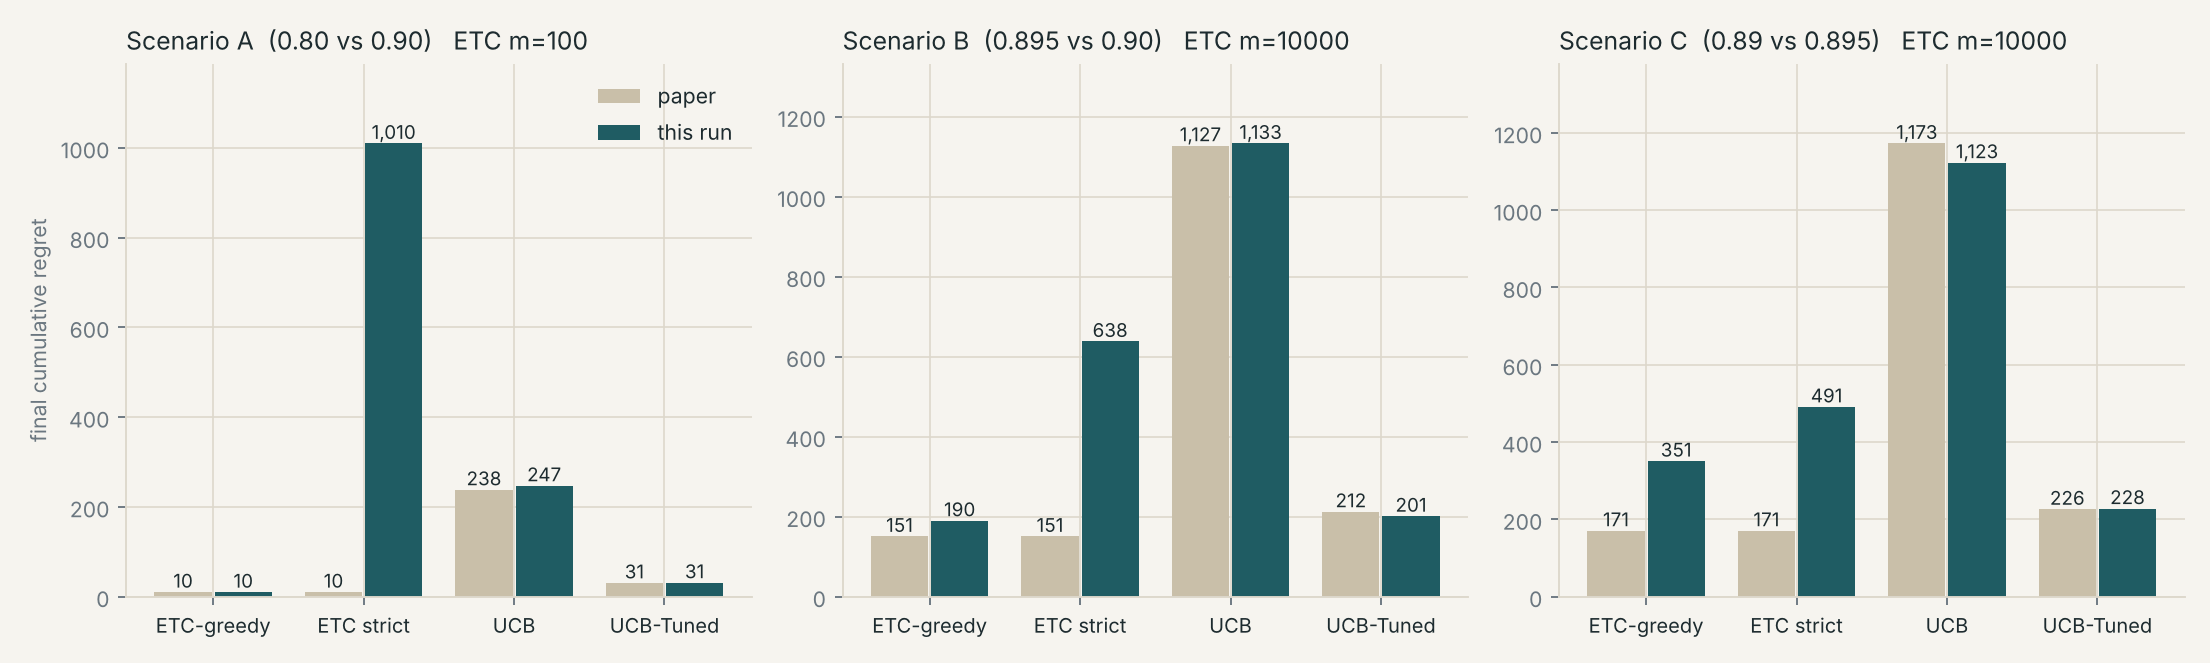
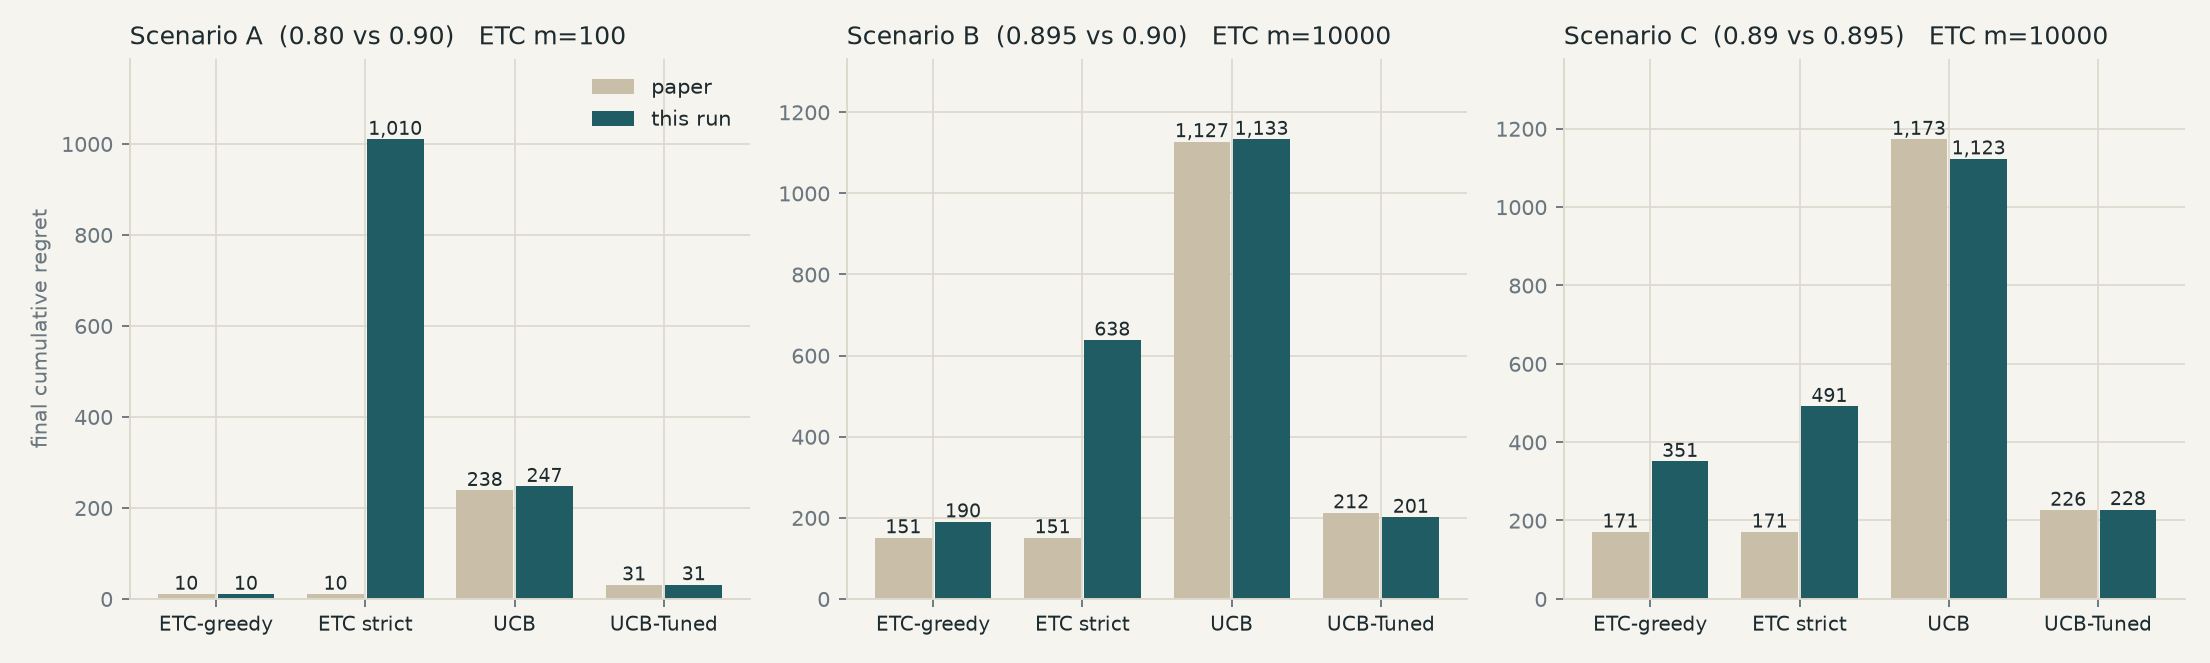
Validate bandit implementation and refresh full-run results
Fix ETC bookkeeping for truncated and odd exploration horizons. Add cutoff checks and reliable verifier exit codes. Keep quick-run outputs separate and record seed, environment and source provenance.

Refresh results from the full T=1,000,000, 100-trial run (seed 42; Python 3.14.5; NumPy 2.4.6). All 26 verification checks passed. All 36 main result rows and curves match the previous results; auxiliary ETC estimates retain Monte Carlo uncertainty.

Update the README to match the committed outputs and document partial reproduction. Include only assignment source, requirements, ignore rules and the existing results layout.

diff --git a/run_experiment.py b/run_experiment.py
@@ -7,15 +7,17 @@ Algorithms", arXiv:2510.27001.
   Scenario B  p = (0.895, 0.90)   micro-gap, Delta = 0.005, lower variance
   Scenario C  p = (0.89, 0.895)   micro-gap, Delta = 0.005, higher variance
 
-Protocol (paper, Section 3.2): horizon T = 1,000,000 steps, 100 independent
-trials, ETC exploration lengths m in {10, 100, 1000, 10^4, 10^5}.
+Partial reproduction: paper-matched horizon T = 1,000,000 steps and 100
+independent trials for ETC, UCB and UCB-Tuned; this is a subset of the paper's
+eight algorithms. Arm orders are randomized per trial rather than exhaustively
+permuted. ETC exploration lengths m in {10, 100, 1000, 10^4, 10^5}.
 
 Usage
-  python3 run_experiment.py              # full protocol, about 10 minutes on 2 cores
-  python3 run_experiment.py --quick      # T = 100,000, 20 trials, about 1 minute
+  python3 run_experiment.py              # paper-matched horizon/trials; partial algorithm reproduction
+  python3 run_experiment.py --quick      # smoke check: T = 100,000, 20 trials, output results_quick/
   python3 run_experiment.py --workers 4  # number of processes (default: all cores)
 
-Output (folder results/)
+Output (folder results/, or results_quick/ with --quick)
   summary.csv       mean / std / median regret per scenario and algorithm
   etc_expected.csv  expected ETC regret from many simulated trials
   comparison.csv    our final regret next to the values printed in the paper
@@ -23,8 +25,11 @@ Output (folder results/)
 """
 import argparse
 import csv
+from datetime import datetime, timezone
+import hashlib
 import json
 import os
+import platform
 import time
 from concurrent.futures import ProcessPoolExecutor
 
@@ -35,6 +40,8 @@ import bandit_sim as sim
 SCENARIOS = {"A": (0.80, 0.90), "B": (0.895, 0.90), "C": (0.89, 0.895)}
 ETC_M = (10, 100, 1_000, 10_000, 100_000)
 SEED = 42
+IMPLEMENTATION_VERSION = "group6-1.1"
+ALGORITHM_CODES = {"etc": 0, "etc_exp": 1, "greedy": 2, "greedy_exp": 3, "ucb": 4, "ucb_tuned": 5}
 # Exploration lengths for which the expected ETC-greedy regret is estimated from more trials
 GREEDY_EXPECTATION = {("A", 100), ("B", 10_000), ("C", 10_000)}
 
@@ -72,7 +79,7 @@ def run_task(task):
     kind, scen, m, horizon, trials, expectation_trials = task
     p = SCENARIOS[scen]
     s_idx = list(SCENARIOS).index(scen)
-    code = {"etc": 0, "etc_exp": 1, "greedy": 2, "greedy_exp": 3, "ucb": 4, "ucb_tuned": 5}[kind]
+    code = ALGORITHM_CODES[kind]
     rng = np.random.default_rng([SEED, s_idx, code, m])
     marks = sim.checkpoints(horizon)
     result = {"kind": kind, "scenario": scen, "m": m}
@@ -123,8 +130,10 @@ def main():
     parser = argparse.ArgumentParser()
     parser.add_argument("--quick", action="store_true", help="T = 100,000 and 20 trials")
     parser.add_argument("--workers", type=int, default=os.cpu_count())
-    parser.add_argument("--out", default="results")
+    parser.add_argument("--out", default=None, help="output folder (default: results, or results_quick with --quick)")
     args = parser.parse_args()
+    if args.out is None:
+        args.out = "results_quick" if args.quick else "results"
     horizon, trials = (100_000, 20) if args.quick else (1_000_000, 100)
     strict_exp, greedy_exp = (5_000, 100) if args.quick else (100_000, 1_000)
     os.makedirs(args.out, exist_ok=True)
@@ -184,9 +193,30 @@ def main():
               ["scenario", "paper_algorithm", "our_algorithm", "paper_regret", "our_regret", "our_sem",
                "our_over_paper", "paper_subopt_ratio", "our_subopt_ratio", "horizon", "trials"], rows)
 
+    source_dir = os.path.dirname(os.path.abspath(__file__))
+    source_hashes = {}
+    for filename in ("bandit_sim.py", "run_experiment.py"):
+        with open(os.path.join(source_dir, filename), "rb") as source:
+            source_hashes[filename] = hashlib.sha256(source.read()).hexdigest()
+    metadata = {
+        "generated_at_utc": datetime.now(timezone.utc).isoformat(),
+        "python_version": platform.python_version(),
+        "numpy_version": np.__version__,
+        "base_seed": SEED,
+        "rng_bit_generator": np.random.default_rng().bit_generator.__class__.__name__,
+        "task_seed_schema": "[base_seed, scenario_index_in_ABC, algorithm_code, exploration_m]",
+        "algorithm_codes": ALGORITHM_CODES,
+        "algorithm_implementation_version": IMPLEMENTATION_VERSION,
+        "source_sha256": source_hashes,
+        "reproduction_scope": "ETC, ETC-greedy, UCB, UCB-Tuned; partial algorithm/metric reproduction",
+        "arm_order_protocol": "independent random swap per trial; not exhaustive permutations",
+        "paper_comparison_horizon_matches": horizon == 1_000_000,
+        "stored_data_scope": "aggregate mean curves; per-trial trajectories are not retained",
+    }
     with open(os.path.join(args.out, "raw_results.json"), "w") as f:
         json.dump({"horizon": horizon, "trials": trials, "scenarios": SCENARIOS,
-                   "checkpoints": sim.checkpoints(horizon).tolist(), "mean_regret_curves": curves}, f)
+                   "checkpoints": sim.checkpoints(horizon).tolist(), "mean_regret_curves": curves,
+                   "metadata": metadata}, f)
 
     print(f"\nSaved summary.csv, etc_expected.csv, comparison.csv, raw_results.json to {args.out}/"
           f"  ({time.time() - started:.0f}s)")

diff --git a/verify_implementation.py b/verify_implementation.py
@@ -8,6 +8,8 @@ Checks that bandit_sim.py behaves as the algorithm definitions say.
    separate, plain-Python single-trial implementation written directly from the
    definitions.
 3. Regret bookkeeping: regret is non-decreasing in t and bounded by gap * t.
+4. ETC exploration ends at the horizon, including odd horizons, and final regret
+   equals gap * horizon * suboptimal-pull ratio.
 
 Run:  python3 verify_implementation.py
 """
@@ -140,5 +142,37 @@ for name, (out, *_rest) in {
     bounded = bool(np.all(out <= 0.1 * marks[:, None] + 1e-9))
     report(f"regret bookkeeping, {name}", monotone and bounded, "non-decreasing in t and at most gap * t")
 
+# ----------------------------------------- 4. exploration cutoffs and odd horizons
+# Both arm orders make an omitted final arm-0 pull observable. These expectations
+# follow directly from one alternating action per round, independent of rewards.
+boundary_means = np.array([[0.80, 0.90], [0.90, 0.80]])
+boundary_gap = boundary_means.max(axis=1)[:, None] - boundary_means
+for name, simulate in (("ETC", sim.simulate_etc), ("ETC-greedy", sim.simulate_etc_greedy)):
+    for horizon in (3, 4, 5, 6, 7):
+        m = 3
+        boundary_marks = np.arange(1, horizon + 1)
+        out, ratio, flagged = simulate(boundary_means, m, horizon, boundary_marks, np.random.default_rng(12))
+        implied_regret = boundary_gap.max(axis=1) * horizon * ratio
+        ratio_matches = bool(np.allclose(out[-1], implied_regret, atol=1e-12, rtol=0))
+        exploration_marks = boundary_marks[boundary_marks <= 2 * m]
+        expected_exploration = (((exploration_marks + 1) // 2)[:, None] * boundary_gap[:, 0]
+                                + (exploration_marks // 2)[:, None] * boundary_gap[:, 1])
+        exploration_matches = bool(np.allclose(out[:len(exploration_marks)], expected_exploration,
+                                              atol=1e-12, rtol=0))
+        no_commit_before_exploitation = horizon > 2 * m or not bool(np.any(flagged))
+        report(f"exploration cutoff, {name}, m={m}, T={horizon}",
+               ratio_matches and exploration_matches and no_commit_before_exploitation,
+               "alternating pulls through cutoff; regret = gap * T * suboptimal ratio")
+
+# The documented quick mode has m=100,000 at T=100,000: exactly half the pulls
+# are suboptimal, with no post-exploration action and regret 250 for gap 0.005.
+quick_means = np.array([[0.89, 0.895], [0.895, 0.89]])
+for name, simulate in (("ETC", sim.simulate_etc), ("ETC-greedy", sim.simulate_etc_greedy)):
+    out, ratio, flagged = simulate(quick_means, 100_000, 100_000, np.array([100_000]),
+                                  np.random.default_rng(13))
+    ok = bool(np.allclose(out[-1], 250.0) and np.allclose(ratio, 0.5) and not np.any(flagged))
+    report(f"quick-mode exploration cutoff, {name}", ok, "regret 250; suboptimal ratio 0.5; no commitment")
+
 print()
 print("ALL CHECKS PASSED" if all(results) else "SOME CHECKS FAILED")
+raise SystemExit(0 if all(results) else 1)

diff --git a/bandit_sim.py b/bandit_sim.py
@@ -67,9 +67,9 @@ def simulate_etc(means, m, horizon, marks, rng):
         else:
             regret[i] = m * (gap[:, 0] + gap[:, 1]) + (t - 2 * m) * committed_gap
     explore_pulls = min(2 * m, horizon)
-    subopt_pulls = (explore_pulls // 2) * (gap[:, 0] > 0) + (explore_pulls // 2) * (gap[:, 1] > 0)
+    subopt_pulls = ((explore_pulls + 1) // 2) * (gap[:, 0] > 0) + (explore_pulls // 2) * (gap[:, 1] > 0)
     subopt_pulls = subopt_pulls + max(horizon - 2 * m, 0) * (committed_gap > 0)
-    return regret, subopt_pulls / horizon, committed_gap > 0
+    return regret, subopt_pulls / horizon, (committed_gap > 0) & (horizon > 2 * m)
 
 
 def simulate_ucb(means, horizon, marks, rng, tuned=False):
@@ -140,6 +140,14 @@ def simulate_etc_greedy(means, m, horizon, marks, rng):
     n = means.shape[0]
     rows = np.arange(n)
     gap = means.max(axis=1)[:, None] - means
+    if horizon < 2 * m:
+        # The horizon ends during alternating exploration: no exploitation occurs.
+        # Avoid preloading rewards/counts for pulls beyond the requested horizon.
+        out = np.empty((len(marks), n))
+        for i, t in enumerate(marks):
+            out[i] = ((t + 1) // 2) * gap[:, 0] + (t // 2) * gap[:, 1]
+        pulls_suboptimal = ((horizon + 1) // 2) * (gap[:, 0] > 0) + (horizon // 2) * (gap[:, 1] > 0)
+        return out, pulls_suboptimal / horizon, np.zeros(n, dtype=bool)
     counts = np.full((n, 2), float(m))
     sums = rng.binomial(m, means).astype(float)       # exploration outcome, (n, 2)
     explore_regret = m * gap.sum(axis=1)

diff --git a/README.md b/README.md
@@ -3,7 +3,7 @@
 Experiments for the paper analysed in this assignment:
 
 > Wolf, E. (2025). *A Framework for Fair Evaluation of Variance-Aware Bandit Algorithms.* arXiv:2510.27001.
-> Authors' framework (Bandit Playground): https://github.com/eelisee/bandit_playground
+> Authors' paper-linked framework version (Bandit Playground): https://github.com/eelisee/bandit_playground/tree/ab0e657070c41089ed37d9795f297d067bd84903
 
 BITS Pilani WILP, M.Tech AI/ML, Deep Reinforcement Learning, Assignment I, Group 6.
 
@@ -17,18 +17,23 @@ BITS Pilani WILP, M.Tech AI/ML, Deep Reinforcement Learning, Assignment I, Group
 ## What this repository contains
 
 The paper compares eight bandit algorithms on three two-armed Bernoulli scenarios. This
-repository simulates ETC, UCB and UCB-Tuned under the paper's protocol (horizon T = 1,000,000
-steps, 100 independent trials, ETC exploration lengths m = 10 to 100,000) and places the
+repository partially reproduces ETC, UCB and UCB-Tuned using the paper's scenarios, horizon T = 1,000,000
+steps, 100 independent trials and ETC exploration lengths m = 10 to 100,000, and places the
 resulting regret next to the values printed in the paper's Tables 3 to 5. ETC is simulated in
 two forms, described below, because the paper's text and the Bandit Playground code describe
 slightly different procedures.
+
+This is a partial reproduction of three algorithms and selected regret metrics. Our arm order
+is randomized per trial, rather than exhaustively evaluated for each permutation. Random
+streams and checkpoints differ; reward distributions, VaR and reward-variance tests are not
+reproduced. The paper contributes an evaluation framework for existing algorithms.
 
 | File | Purpose |
 |---|---|
 | `bandit_sim.py` | Simulation of ETC, ETC-greedy, UCB and UCB-Tuned (all trials run together as NumPy arrays) |
 | `run_experiment.py` | Runs scenarios A, B, C and writes the tables in `results/` |
 | `make_plots.py` | Draws `results/regret_curves.png` and `results/final_regret_vs_paper.png` |
-| `verify_implementation.py` | Checks the simulation against closed-form theory and a plain-loop reference |
+| `verify_implementation.py` | Checks the simulation against a normal approximation and independent plain-loop references |
 | `results/` | `summary.csv`, `comparison.csv`, `etc_expected.csv`, `raw_results.json`, figures |
 
 ## Setup and run
@@ -36,12 +41,26 @@ slightly different procedures.
 ```bash
 pip install -r requirements.txt        # numpy, matplotlib
 python3 verify_implementation.py       # about a minute, prints PASS/FAIL per check
-python3 run_experiment.py              # full protocol, about 8 minutes on 2 cores
-python3 run_experiment.py --quick      # T = 100,000 and 20 trials, about 30 seconds
+python3 run_experiment.py              # full horizon for our selected methods; writes results/
+python3 run_experiment.py --quick      # T = 100,000, 20 trials; writes results_quick/
 python3 make_plots.py                  # figures from results/
 ```
 
-Random seeds are fixed (`SEED = 42`), so repeated runs give identical numbers.
+On Windows, use `python` if `python3` is not available. Quick runs use a shorter horizon;
+their paper-reference columns are not like-for-like final comparisons. Use the preserved
+full-horizon `results/` for presentation numbers. To plot quick outputs, pass their directory
+explicitly: `python3 make_plots.py results_quick`.
+
+Random seeds are fixed (`SEED = 42`); repeatability also depends on code and library versions.
+The committed results come from a full run on 11 October 2026 with Python 3.14.5 and
+NumPy 2.4.6. All 36 main summary rows, 20 paper-comparison rows and 36 mean regret curves
+matched the previously saved results exactly. The verifier passed all 26 checks.
+
+Five auxiliary strict-ETC Monte Carlo estimates differed slightly from the historical
+output, within the reported sampling uncertainty. The original producing environment was
+not recorded, so the cause of those differences is unestablished. The tables below use
+the fresh committed estimates. `results/raw_results.json` records the generation time,
+seeds, Python/NumPy versions, implementation version, source hashes and reproduction scope.
 
 ## Setting
 
@@ -77,7 +96,8 @@ favour neither arm.
 | C | UCB-Tuned | 226.09 | 227.82 ± 8.94 | 1.01 |
 
 All six values are within 6% of the paper. UCB-Tuned has the lowest regret of the two in every
-scenario, and the difference to UCB is largest in the two micro-gap scenarios B and C.
+scenario. The absolute regret savings against UCB are largest in the two micro-gap
+scenarios B and C; the largest relative reduction occurs in A.
 
 ![final regret vs paper](results/final_regret_vs_paper.png)
 
@@ -111,13 +131,13 @@ so the expected values from 100,000 trials are listed next to it.
 | A | 100,000 | 10,000.0 | 0 / 100 | 10,000.0 ± 0.0 | 0.0% |
 | B | 10 | 2,600.0 | 52 / 100 | 2,428.3 ± 7.9 | 48.6% |
 | B | 100 | 2,200.1 | 44 / 100 | 2,258.6 ± 7.9 | 45.2% |
-| B | 1,000 | 1,851.3 | 37 / 100 | 1,781.5 ± 7.6 | 35.6% |
-| B | 10,000 | 638.0 | 12 / 100 | 655.1 ± 5.1 | 12.3% |
-| B | 100,000 | 500.0 | 0 / 100 | 500.4 ± 0.1 | 0.0% |
+| B | 1,000 | 1,851.3 | 37 / 100 | 1,785.5 ± 7.6 | 35.7% |
+| B | 10,000 | 638.0 | 12 / 100 | 654.6 ± 5.1 | 12.3% |
+| B | 100,000 | 500.0 | 0 / 100 | 500.2 ± 0.1 | 0.0% |
 | C | 10 | 2,650.0 | 53 / 100 | 2,428.5 ± 7.9 | 48.6% |
 | C | 100 | 2,250.1 | 45 / 100 | 2,294.0 ± 7.9 | 45.9% |
-| C | 1,000 | 1,751.5 | 35 / 100 | 1,796.3 ± 7.6 | 35.9% |
-| C | 10,000 | 491.0 | 9 / 100 | 675.8 ± 5.2 | 12.8% |
+| C | 1,000 | 1,751.5 | 35 / 100 | 1,796.9 ± 7.6 | 35.9% |
+| C | 10,000 | 491.0 | 9 / 100 | 676.3 ± 5.2 | 12.8% |
 | C | 100,000 | 500.0 | 0 / 100 | 500.2 ± 0.1 | 0.0% |
 
 **ETC-greedy.** Because the estimates keep updating after exploration, a wrong early ranking
@@ -130,10 +150,10 @@ regret from 1,000 trials, at the three settings the paper highlights:
 | Scenario | m | Mean regret, 100 trials (± s.e.) | Expected regret, 1,000 trials (± s.e.) | Expected regret of ETC, 100,000 trials |
 |---|---|---|---|---|
 | A | 100 | 10.0 ± 0.0 | 110.2 ± 100.0 | 2,184.6 |
-| B | 10,000 | 189.8 ± 74.3 | 256.1 ± 29.7 | 655.1 |
-| C | 10,000 | 350.8 ± 116.8 | 197.5 ± 24.5 | 675.8 |
+| B | 10,000 | 189.8 ± 74.3 | 256.1 ± 29.7 | 654.6 |
+| C | 10,000 | 350.8 ± 116.8 | 197.5 ± 24.5 | 676.3 |
 
-For comparison, UCB-Tuned and UCB over the same 100 trials:
+For comparison, UCB-Tuned and UCB with 100 independent trials per algorithm:
 
 | Scenario | UCB (± s.e.) | UCB-Tuned (± s.e.) |
 |---|---|---|
@@ -163,12 +183,14 @@ ETC values printed in the paper, next to this run (100 trials):
 The ETC-greedy values are close to the paper's ETC entries (A, m = 100: 10.01 against 10.10).
 For m = 10,000 in B and C the 100-trial means carry a standard error of about 75 to 120
 because a few trials spend a long stretch on the worse arm, so the paper's 150.66 and 170.53
-lie within sampling noise of the ETC-greedy results. ETC with a fixed commitment has a
-higher expected regret at the same settings.
+are compatible with substantial sampling variation. This does not establish equal expected
+performance. The larger-trial values in `etc_expected.csv` are Monte Carlo estimates, not
+exact expectations. ETC with a fixed commitment has higher expected regret at the same
+paper-highlighted settings; this does not establish a universal winner.
 
 ## Verification
 
-`verify_implementation.py` runs four groups of checks:
+`verify_implementation.py` runs 26 checks covering:
 
 1. ETC: the simulated share of trials that commit to the worse arm matches the normal
    approximation above for A (m = 100), B (m = 10,000), C (m = 10,000) and C (m = 100,000).
@@ -176,6 +198,21 @@ higher expected regret at the same settings.
    independent single-trial implementation written with plain Python loops.
 3. ETC-greedy: the same comparison against a plain-loop single-trial implementation.
 4. Regret is non-decreasing in t and never exceeds Delta * t, for every algorithm.
+5. Truncated and odd exploration horizons have the correct alternating pull counts, obey
+   regret = gap * horizon * suboptimal ratio, and have no commitment before exploitation.
+6. The quick-mode m = 100,000, T = 100,000 case has regret 250 and suboptimal ratio 0.5
+   for the micro-gap scenario. A failed check exits with status 1.
+
+The ETC probability check uses a normal approximation with an approximation allowance;
+it is not an exact binomial calculation. The independent plain-loop comparisons use
+separate random streams and check agreement within sampling error, rather than identical
+trial paths. Run `python verify_implementation.py` to inspect all 26 checks; a failed
+check exits with status 1.
+
+The fresh full run uses the scenario-specific and algorithm-specific seed schema documented
+in `results/raw_results.json`. ETC expectation values are larger-trial Monte Carlo estimates
+with standard errors; they should not be interpreted as exact expectations. The reported
+paper comparisons cover only the algorithms and regret metrics reproduced here.
 
 ## File reference
 
